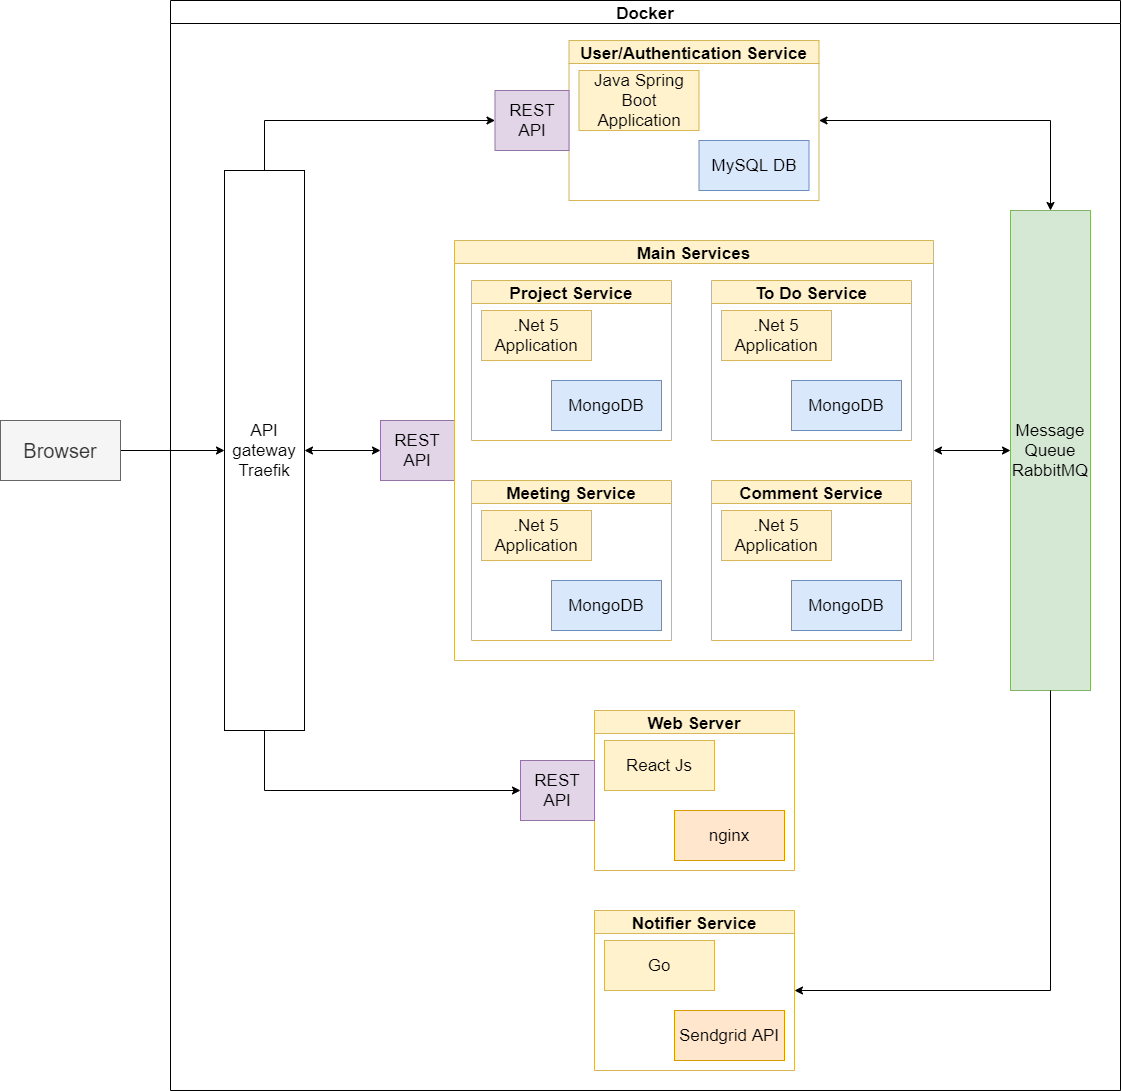
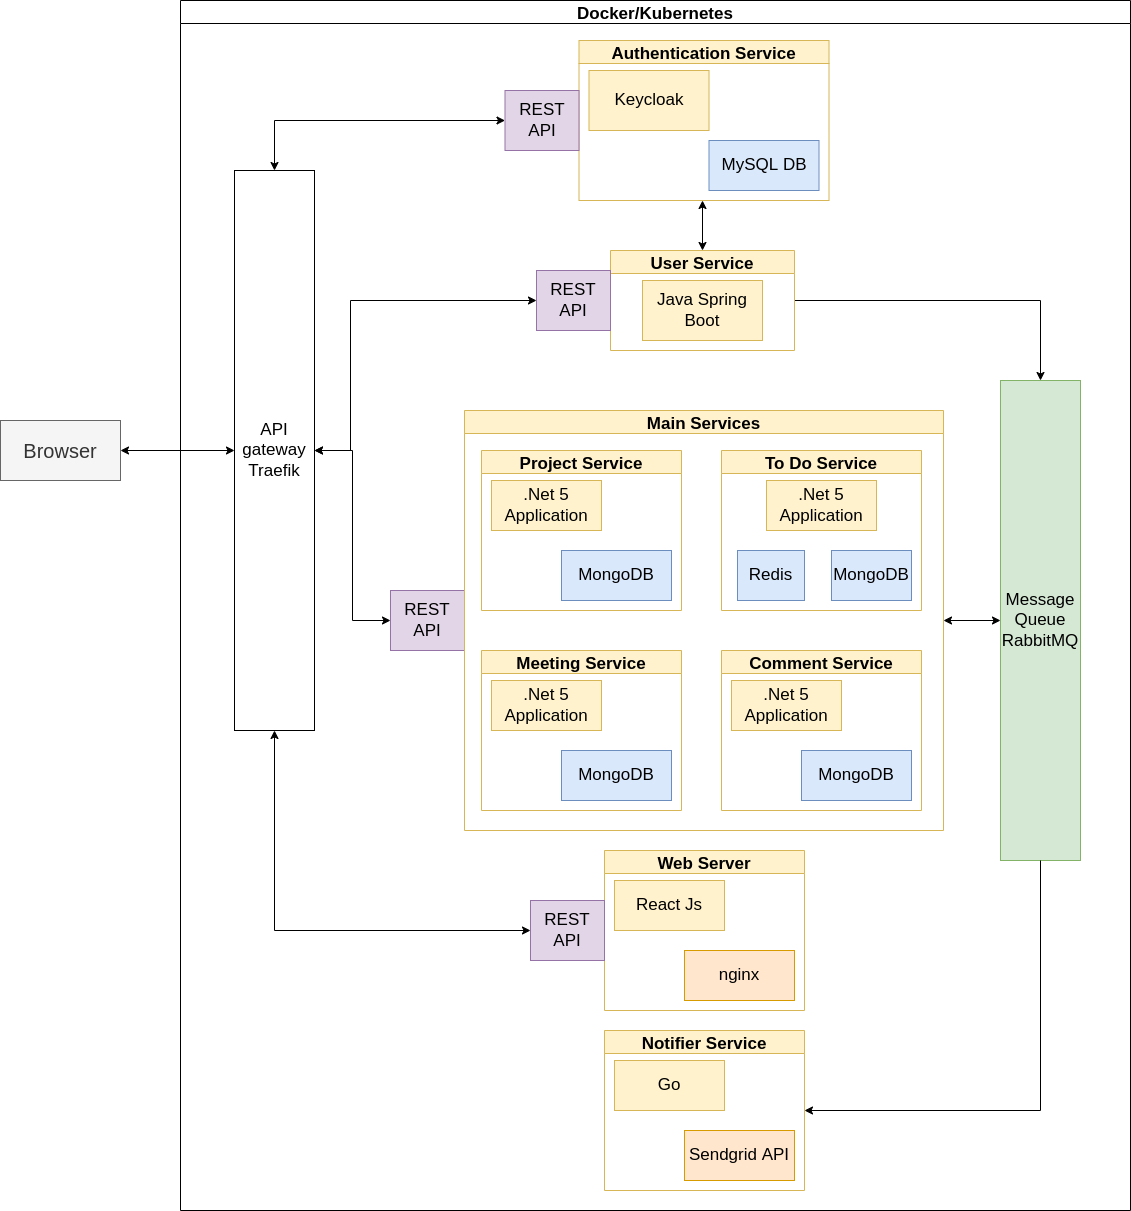
docs: main readme has been updated

diff --git a/README.md b/README.md
@@ -2,11 +2,12 @@
 Project manager based on microservice architecture
 
 ## Architecture
-![Diagram of the architecture](/docs/resources/project_manager.svg)
+![Diagram of the architecture](/docs/resources/project_manager.png)
 ### Services
-- __User/Authentication Service__: A Java Spring Boot Application which Handels the login, logout and sign up requests. The user credentials are stored in a MySQL database.
-- __Project Service__: A .Net 5 Application which provides CRUD procedures on the Project entries, stored in a MongoDB instance.
-- __Meeting Service__: A .Net 5 Application which provides CRUD procedures on the Meeting entries, stored in a MongoDB instance.
+- __Authentication Service__: A Keycloak instance which handels the login, logout and sign up requests. The user credentials are stored in a MySQL database.
+- __User Service__: A Spring Boot application, which is responsible for the getting user infos from Keycloak. 
+- __Project Service__: A .Net 5 application which provides CRUD procedures on the Project entries, stored in a MongoDB instance.
+- __Meeting Service__: A .Net 5 application which provides CRUD procedures on the Meeting entries, stored in a MongoDB instance.
 - __Web Server__: A React SPA application which provides UI for the ProjectManager service. It is served with nginx.
 - __Notifier Service__: A Go application which sends e-mail notifications to the members of the projects.
 
